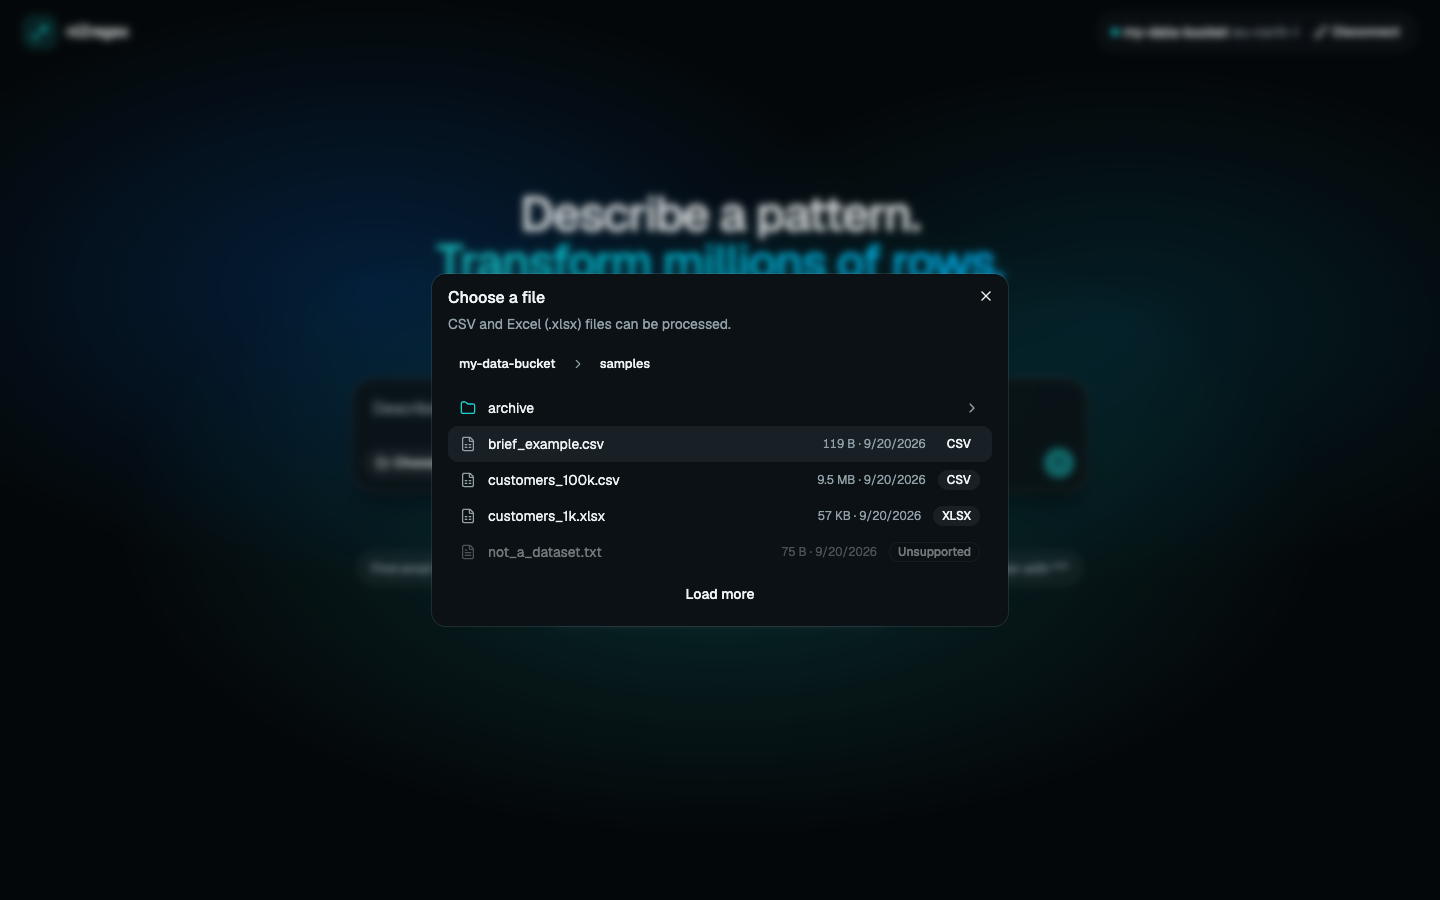
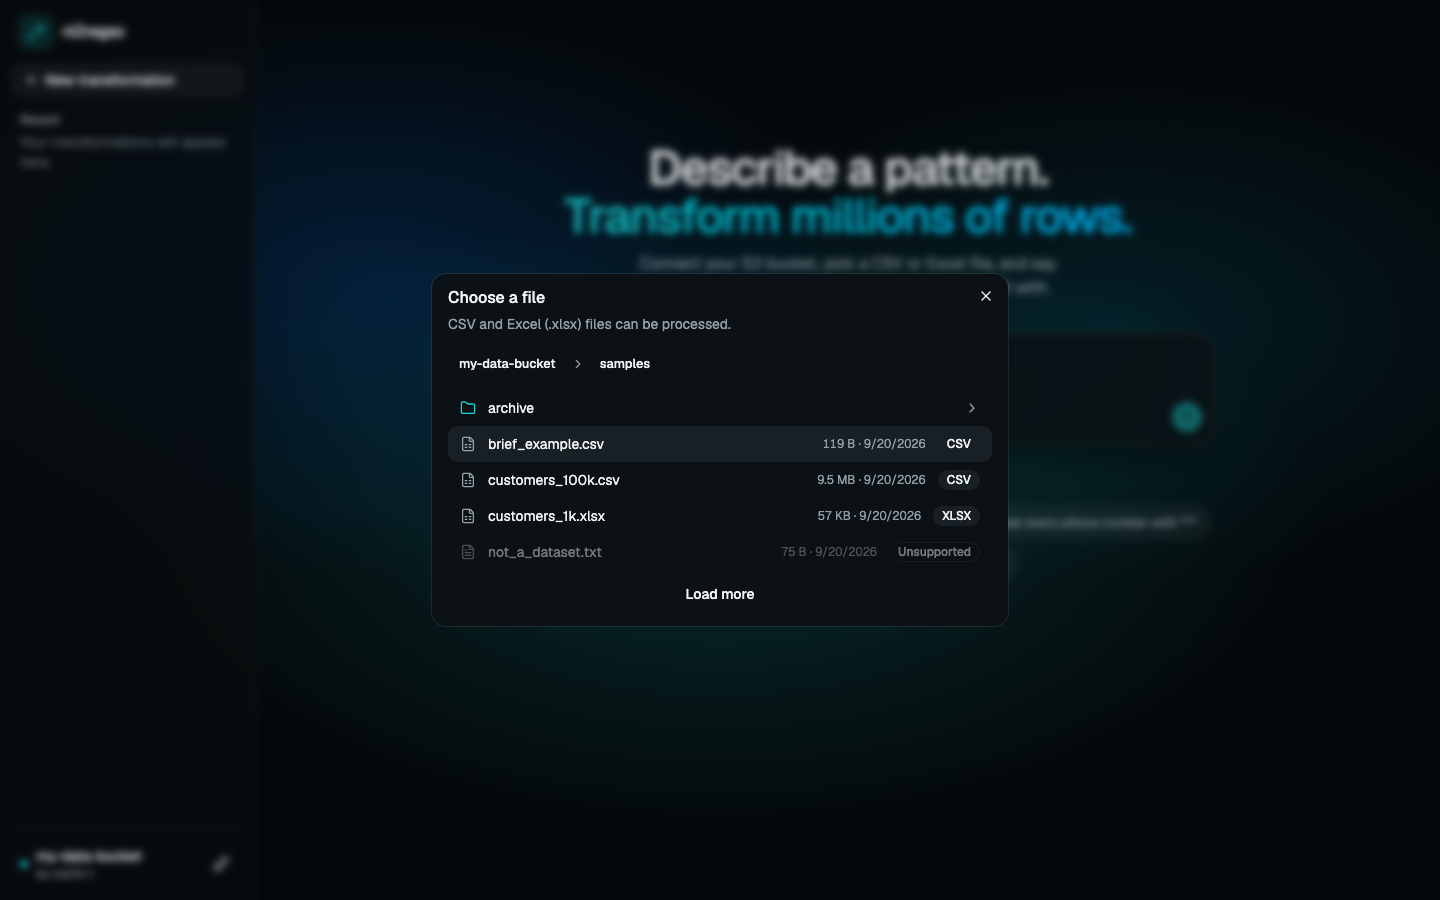
Add a sidebar and make the prompt box grow in every browser
The sidebar holds the brand, "New transformation", the list of recent
transformations (empty until jobs exist) and the connected bucket at its foot.
Narrow screens keep a one-line header instead.

The prompt box relied on CSS field-sizing to grow with its text, which Safari
and Firefox do not support, so there it stayed one line tall and scrolled
inside. It now measures its content, grows and shrinks with it, and only
scrolls once it reaches 45% of the viewport height.

diff --git a/frontend/src/components/app-shell.tsx b/frontend/src/components/app-shell.tsx
@@ -1,26 +1,60 @@
 import type { ReactNode } from 'react'
-import { Regex } from 'lucide-react'
+import { Plus, Regex } from 'lucide-react'
 
+import { Button } from '@/components/ui/button'
+import { ConnectionPanel } from '@/features/connection/connection-panel'
 import { ConnectionPill } from '@/features/connection/connection-pill'
 
-export function AppShell({ children }: { children: ReactNode }) {
+interface AppShellProps {
+  onNewTransformation: () => void
+  children: ReactNode
+}
+
+export function AppShell({ onNewTransformation, children }: AppShellProps) {
   return (
-    <div className="relative min-h-svh">
+    <div className="relative flex min-h-svh">
       <div aria-hidden className="glow pointer-events-none fixed inset-0" />
 
-      <header className="relative z-10 flex h-16 items-center justify-between px-4 sm:px-6">
-        <div className="flex items-center gap-2.5">
-          <span className="flex size-8 items-center justify-center rounded-lg bg-primary/15 text-primary ring-1 ring-primary/30">
-            <Regex className="size-4.5" />
-          </span>
-          <span className="font-medium tracking-tight">nl2regex</span>
-        </div>
-        <ConnectionPill />
-      </header>
+      {/* Wide screens get the sidebar. Narrow ones get a one-line header instead. */}
+      <aside className="sticky top-0 z-10 hidden h-svh w-64 shrink-0 flex-col gap-4 border-r border-sidebar-border bg-sidebar/70 p-3 backdrop-blur-md md:flex">
+        <Brand className="px-2 pt-1" />
 
-      <main className="relative z-10 mx-auto flex w-full max-w-3xl flex-col items-center px-4 pt-[14vh] pb-16">
-        {children}
-      </main>
+        <Button variant="outline" className="justify-start" onClick={onNewTransformation}>
+          <Plus />
+          New transformation
+        </Button>
+
+        <nav aria-label="Recent transformations" className="flex min-h-0 flex-1 flex-col gap-1">
+          <h2 className="px-2 text-xs font-medium text-muted-foreground">Recent</h2>
+          <p className="px-2 text-sm text-muted-foreground/70">Your transformations will appear here.</p>
+        </nav>
+
+        <div className="border-t border-sidebar-border pt-3">
+          <ConnectionPanel />
+        </div>
+      </aside>
+
+      <div className="relative z-10 flex min-w-0 flex-1 flex-col">
+        <header className="flex h-14 items-center justify-between gap-3 px-4 md:hidden">
+          <Brand />
+          <ConnectionPill />
+        </header>
+
+        <main className="mx-auto flex w-full max-w-3xl flex-col items-center px-4 pt-[10vh] pb-16 md:pt-[16vh]">
+          {children}
+        </main>
+      </div>
+    </div>
+  )
+}
+
+function Brand({ className }: { className?: string }) {
+  return (
+    <div className={`flex items-center gap-2.5 ${className ?? ''}`}>
+      <span className="flex size-8 items-center justify-center rounded-lg bg-primary/15 text-primary ring-1 ring-primary/30">
+        <Regex className="size-4.5" />
+      </span>
+      <span className="font-medium tracking-tight">nl2regex</span>
     </div>
   )
 }

diff --git a/frontend/src/features/connection/connection-pill.tsx b/frontend/src/features/connection/connection-pill.tsx
@@ -1,43 +1,30 @@
-import { useState } from 'react'
-import { useQueryClient } from '@tanstack/react-query'
 import { Unplug } from 'lucide-react'
 
 import { Button } from '@/components/ui/button'
-import { connectionKey, disconnect, useConnection } from './api'
+import { useConnection, useDisconnect } from './api'
 
-/** Shows which bucket is connected, with the way out. Renders nothing when not connected. */
+/** The connection in one line, for the small-screen header. Renders nothing when not connected. */
 export function ConnectionPill() {
-  const queryClient = useQueryClient()
   const { data: connection } = useConnection()
-  const [pending, setPending] = useState(false)
+  const { disconnect, pending } = useDisconnect()
 
   if (!connection) return null
 
-  async function handleDisconnect() {
-    setPending(true)
-    // Whatever the server says, this browser is done with the connection.
-    await disconnect().catch(() => undefined)
-    queryClient.setQueryData(connectionKey, null)
-    queryClient.removeQueries({ queryKey: ['files'] })
-    setPending(false)
-  }
-
   return (
-    <div className="flex items-center gap-1 rounded-full border border-border bg-card/70 py-1 pr-1 pl-3 text-sm backdrop-blur">
-      <span className="size-2 rounded-full bg-primary" aria-hidden />
-      <span className="max-w-48 truncate font-medium" title={connection.bucket}>
+    <div className="flex min-w-0 items-center gap-1 rounded-full border border-border bg-card/70 py-1 pr-1 pl-3 text-sm backdrop-blur">
+      <span className="size-2 shrink-0 rounded-full bg-primary" aria-hidden />
+      <span className="truncate font-medium" title={connection.bucket}>
         {connection.bucket}
       </span>
-      <span className="text-muted-foreground">{connection.region}</span>
       <Button
         variant="ghost"
-        size="sm"
-        className="rounded-full"
-        onClick={handleDisconnect}
+        size="icon-sm"
+        className="shrink-0 rounded-full"
+        onClick={disconnect}
         disabled={pending}
+        aria-label="Disconnect"
       >
         <Unplug />
-        Disconnect
       </Button>
     </div>
   )

diff --git a/frontend/src/components/ui/prompt-input.tsx b/frontend/src/components/ui/prompt-input.tsx
@@ -1,4 +1,4 @@
-import type { KeyboardEvent, ReactNode } from "react"
+import { useLayoutEffect, useRef, type KeyboardEvent, type ReactNode } from "react"
 import { ArrowUp } from "lucide-react"
 
 import { cn } from "@/lib/utils"
@@ -32,6 +32,18 @@ function PromptInput({
   actions,
   className,
 }: PromptInputProps) {
+  const textareaRef = useRef<HTMLTextAreaElement>(null)
+
+  // The box grows with the text instead of scrolling inside a fixed height, and only scrolls once
+  // it reaches its maximum. CSS can do this alone (field-sizing: content), but Safari and Firefox
+  // do not support that yet, so the height is measured.
+  useLayoutEffect(() => {
+    const textarea = textareaRef.current
+    if (!textarea) return
+    textarea.style.height = "auto"
+    textarea.style.height = `${textarea.scrollHeight}px`
+  }, [value])
+
   function handleKeyDown(event: KeyboardEvent<HTMLTextAreaElement>) {
     // Enter sends and Shift+Enter breaks the line. While an input method is composing text
     // (Japanese, Chinese, Korean), Enter confirms the composition and must not send.
@@ -50,16 +62,15 @@ function PromptInput({
     >
       {attachments && <div className="flex flex-wrap gap-2 px-1 pb-2">{attachments}</div>}
 
-      {/* Height follows the content through CSS (field-sizing-content in Textarea). Browsers
-          without it keep a fixed height and scroll. */}
       <Textarea
+        ref={textareaRef}
         value={value}
         onChange={(event) => onValueChange(event.target.value)}
         onKeyDown={handleKeyDown}
         placeholder={placeholder}
         aria-label={placeholder}
         rows={1}
-        className="max-h-96 min-h-12 resize-none rounded-none border-0 bg-transparent px-2 py-1.5 text-base focus-visible:ring-0 md:text-base dark:bg-transparent"
+        className="max-h-[45vh] min-h-12 resize-none rounded-none border-0 bg-transparent px-2 py-1.5 text-base focus-visible:ring-0 md:text-base dark:bg-transparent"
       />
 
       <div className="flex items-center justify-between gap-2 pt-2">

diff --git a/frontend/src/features/connection/connection-panel.tsx b/frontend/src/features/connection/connection-panel.tsx
@@ -1,0 +1,36 @@
+import { Unplug } from 'lucide-react'
+
+import { Button } from '@/components/ui/button'
+import { useConnection, useDisconnect } from './api'
+
+/** The foot of the sidebar: which bucket is connected, and the way out. */
+export function ConnectionPanel() {
+  const { data: connection } = useConnection()
+  const { disconnect, pending } = useDisconnect()
+
+  if (!connection) {
+    return <p className="px-2 py-1.5 text-sm text-muted-foreground">No bucket connected</p>
+  }
+
+  return (
+    <div className="flex items-center gap-2 rounded-lg px-2 py-1.5">
+      <span className="size-2 shrink-0 rounded-full bg-primary" aria-hidden />
+      <div className="min-w-0 flex-1">
+        <p className="truncate text-sm font-medium" title={connection.bucket}>
+          {connection.bucket}
+        </p>
+        <p className="text-xs text-muted-foreground">{connection.region}</p>
+      </div>
+      <Button
+        variant="ghost"
+        size="icon-sm"
+        onClick={disconnect}
+        disabled={pending}
+        aria-label="Disconnect"
+        title="Disconnect"
+      >
+        <Unplug />
+      </Button>
+    </div>
+  )
+}

diff --git a/frontend/src/features/connection/api.ts b/frontend/src/features/connection/api.ts
@@ -1,4 +1,5 @@
-import { useQuery } from '@tanstack/react-query'
+import { useState } from 'react'
+import { useQuery, useQueryClient } from '@tanstack/react-query'
 
 import { api, ApiError } from '@/lib/api'
 
@@ -33,4 +34,21 @@ export function connect(request: ConnectRequest) {
 
 export function disconnect() {
   return api<void>('/connection/', { method: 'DELETE' })
+}
+
+/** Disconnect and forget everything fetched through the connection. */
+export function useDisconnect() {
+  const queryClient = useQueryClient()
+  const [pending, setPending] = useState(false)
+
+  async function run() {
+    setPending(true)
+    // Whatever the server says, this browser is done with the connection.
+    await disconnect().catch(() => undefined)
+    queryClient.setQueryData(connectionKey, null)
+    queryClient.removeQueries({ queryKey: ['files'] })
+    setPending(false)
+  }
+
+  return { disconnect: run, pending }
 }

diff --git a/frontend/src/index.css b/frontend/src/index.css
@@ -110,14 +110,14 @@
     --chart-3: oklch(0.439 0 0);
     --chart-4: oklch(0.371 0 0);
     --chart-5: oklch(0.269 0 0);
-    --sidebar: oklch(0.205 0 0);
-    --sidebar-foreground: oklch(0.985 0 0);
-    --sidebar-primary: oklch(0.488 0.243 264.376);
-    --sidebar-primary-foreground: oklch(0.985 0 0);
-    --sidebar-accent: oklch(0.269 0 0);
-    --sidebar-accent-foreground: oklch(0.985 0 0);
-    --sidebar-border: oklch(1 0 0 / 10%);
-    --sidebar-ring: oklch(0.556 0 0);
+    --sidebar: oklch(0.155 0.01 240);
+    --sidebar-foreground: oklch(0.96 0.005 220);
+    --sidebar-primary: oklch(0.78 0.13 195);
+    --sidebar-primary-foreground: oklch(0.16 0.03 200);
+    --sidebar-accent: oklch(0.235 0.015 240);
+    --sidebar-accent-foreground: oklch(0.96 0.005 220);
+    --sidebar-border: oklch(1 0 0 / 8%);
+    --sidebar-ring: oklch(0.78 0.13 195);
 }
 
 @layer base {

diff --git a/frontend/src/App.tsx b/frontend/src/App.tsx
@@ -1,10 +1,15 @@
+import { useState } from 'react'
+
 import { AppShell } from '@/components/app-shell'
 import { Composer } from '@/features/composer/composer'
 
 export default function App() {
+  // A new key remounts the composer, which is the simplest way to clear everything in it.
+  const [composerKey, setComposerKey] = useState(0)
+
   return (
-    <AppShell>
-      <Composer />
+    <AppShell onNewTransformation={() => setComposerKey((key) => key + 1)}>
+      <Composer key={composerKey} />
     </AppShell>
   )
 }

diff --git a/frontend/src/features/composer/composer.tsx b/frontend/src/features/composer/composer.tsx
@@ -85,7 +85,9 @@ export function Composer() {
         <p className="text-center text-xs text-muted-foreground">
           {file
             ? 'File ready. Running the transformation arrives with the job pipeline.'
-            : 'Connect a bucket and choose a file to begin.'}
+            : connection
+              ? 'Choose a file to begin.'
+              : 'Connect a bucket and choose a file to begin.'}
         </p>
       </div>
 
